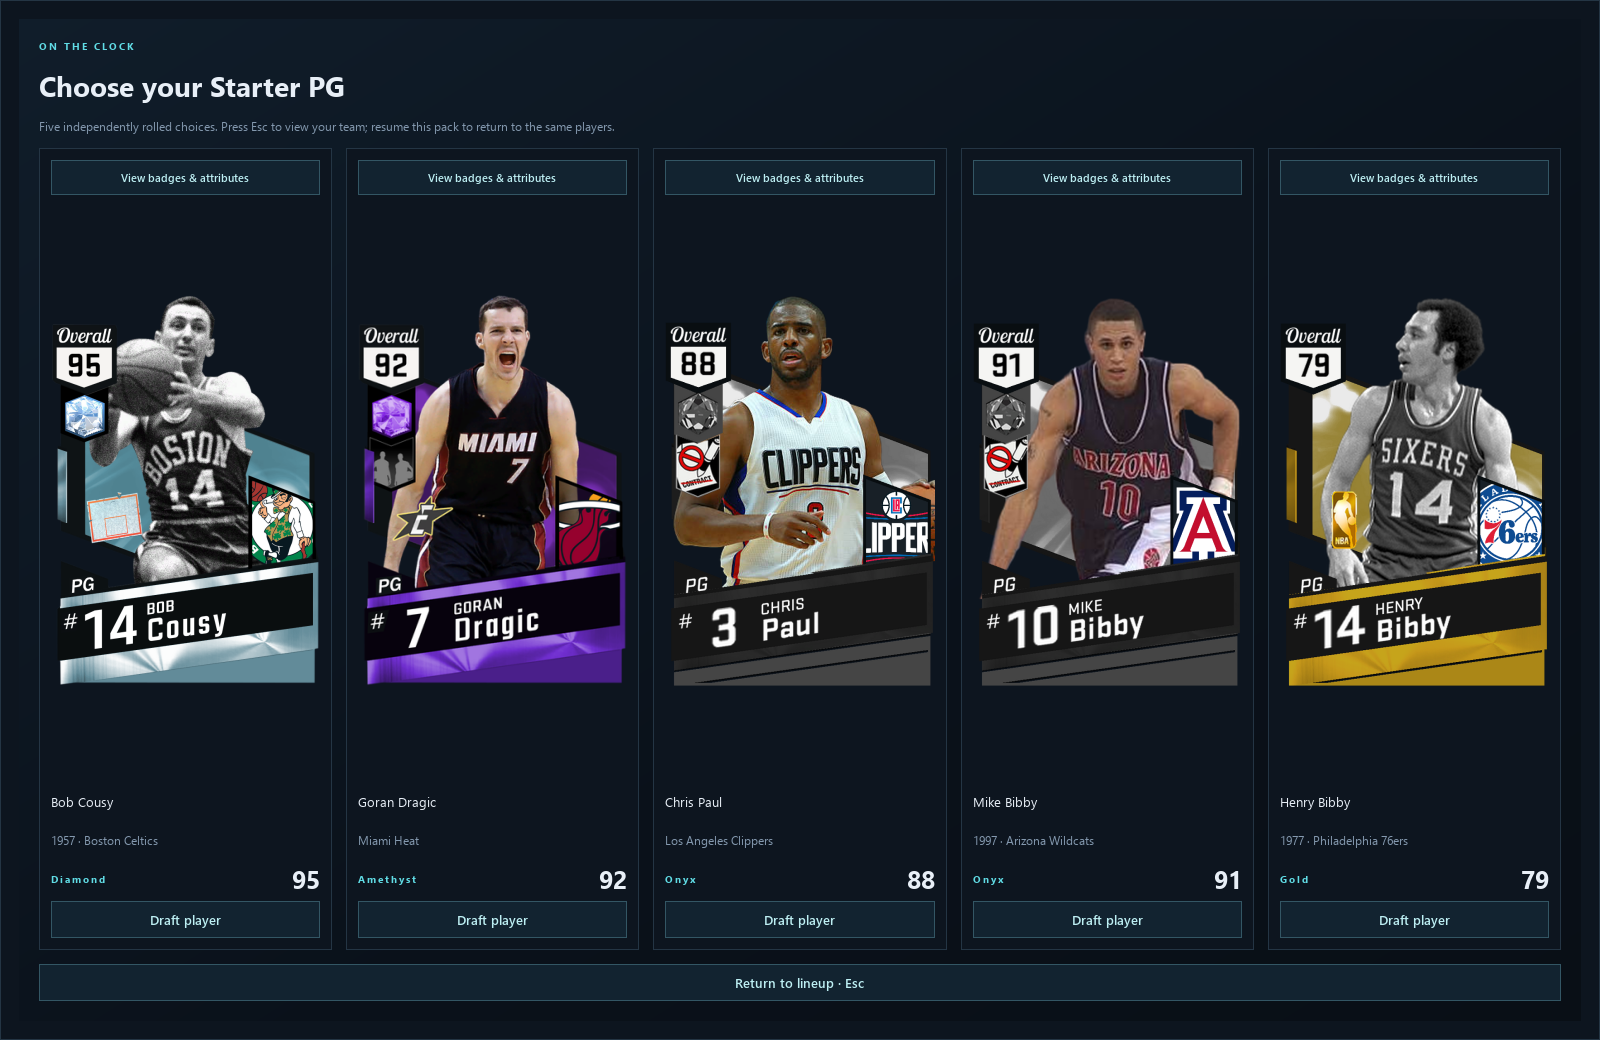
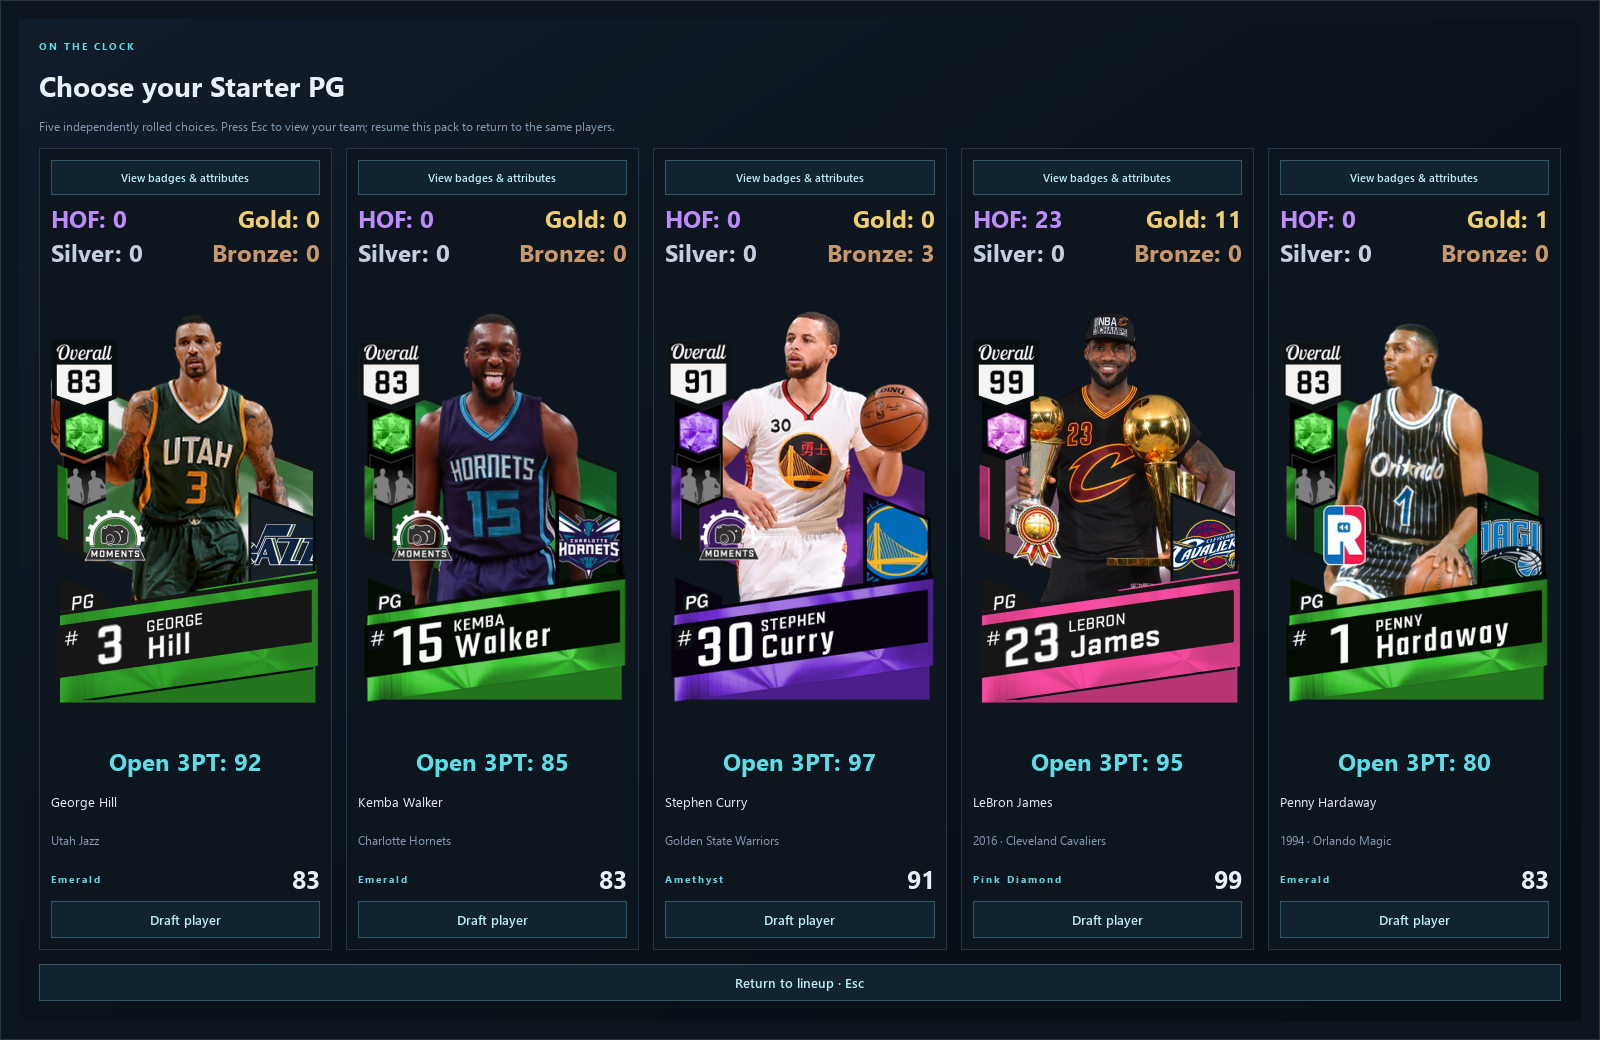
Release v1.1.0 with expanded cards and injection corrections

diff --git a/source/tools/nba2k17_viewer/team_ui.py b/source/tools/nba2k17_viewer/team_ui.py
@@ -2,13 +2,13 @@
 from datetime import datetime
 from pathlib import Path
 from PySide6.QtCore import Qt, QRect, QSize
-from PySide6.QtGui import QPixmap, QPainter, QColor, QFont
+from PySide6.QtGui import QPixmap, QPainter, QColor, QFont, QFontMetrics
 from PySide6.QtWidgets import (QWidget, QFrame, QLabel, QPushButton, QVBoxLayout,
     QHBoxLayout, QGridLayout, QComboBox, QLineEdit, QCheckBox, QScrollArea,
     QFileDialog, QMessageBox, QSizePolicy)
 from .teams import TeamSession, POSITIONS, DRAFT_KEYS, POSITION_KEYS, draft_odds, bonus_odds
 from .archive_repository import project_root
-from .presentation import TIER_COLORS
+from .presentation import TIER_COLORS, BADGE_COLORS, section_values
 from nba2k17_catalog import tier_rank
 
 TITLES = {'custom': 'Create a Team', 'random': 'Random Team', 'draft': 'Draft a Team'}
@@ -130,6 +130,38 @@ class CustomRosterTile(QFrame):
         self.action_button.setEnabled(row is not None)
         layout.addWidget(self.action_button)
 
+class DraftStatLabel(QLabel):
+    """Keep draft statistics on one line, fitting even narrow choice panels."""
+    def __init__(self, text, color, alignment=Qt.AlignmentFlag.AlignLeft):
+        super().__init__(text)
+        self.color = color
+        self.pixel_size = None
+        self.setTextFormat(Qt.TextFormat.PlainText)
+        self.setAlignment(alignment | Qt.AlignmentFlag.AlignVCenter)
+        self.setSizePolicy(QSizePolicy.Policy.Ignored, QSizePolicy.Policy.Fixed)
+        self.setFixedHeight(34)
+        self.fit_text()
+
+    def fit_text(self):
+        font = QFont(self.font())
+        font.setBold(True)
+        size = 26
+        while size > 8:
+            font.setPixelSize(size)
+            metrics = QFontMetrics(font)
+            if (metrics.horizontalAdvance(self.text()) <= self.contentsRect().width() - 4
+                    and metrics.height() <= self.contentsRect().height() - 2):
+                break
+            size -= 1
+        if size != self.pixel_size:
+            self.pixel_size = size
+            self.setStyleSheet(f'color: {self.color}; font-size: {size}px; font-weight: 700;')
+
+    def resizeEvent(self, event):
+        super().resizeEvent(event)
+        self.fit_text()
+
+
 class DraftChoice(QFrame):
     def __init__(self, workspace, row, compact=False):
         super().__init__()
@@ -143,10 +175,31 @@ class DraftChoice(QFrame):
         view.setStyleSheet('font-size: 11px; padding: 9px 3px;')
         view.clicked.connect(lambda: workspace.inspect(row))
         layout.addWidget(view)
+        card = workspace.owner.repository.cards[row['id']]
+        badges = section_values(card, 'badges')
+        self.badge_counts = {}
+        badge_grid = QGridLayout()
+        badge_grid.setHorizontalSpacing(12)
+        badge_grid.setVerticalSpacing(0)
+        for index, (level, title) in enumerate((('HALL_OF_FAME', 'HOF'), ('GOLD', 'Gold'),
+                                                ('SILVER', 'Silver'), ('BRONZE', 'Bronze'))):
+            count = sum(value == level for value in badges.values())
+            alignment = Qt.AlignmentFlag.AlignRight if index % 2 else Qt.AlignmentFlag.AlignLeft
+            indicator = DraftStatLabel(f'{title}: {count}', BADGE_COLORS[level], alignment)
+            self.badge_counts[level] = indicator
+            badge_grid.addWidget(indicator, index // 2, index % 2)
+        badge_grid.setColumnStretch(0, 1)
+        badge_grid.setColumnStretch(1, 1)
+        layout.addLayout(badge_grid)
         self.art = DraftArt(row.get('image_path'))
-        if compact:
-            self.art.setMinimumHeight(120)
+        # The artwork takes remaining space; a fixed minimum can force Qt to
+        # overlap the statistics at short window heights.
+        self.art.setMinimumHeight(0)
         layout.addWidget(self.art, 1)
+        three = section_values(card, 'attributes').get('open_shot_three')
+        self.open_three = DraftStatLabel(f'Open 3PT: {three if three is not None else "—"}',
+                                        '#60dce5', Qt.AlignmentFlag.AlignHCenter)
+        layout.addWidget(self.open_three)
         name = QLabel(row['name']); name.setWordWrap(True)
         name.setTextFormat(Qt.TextFormat.PlainText)
         name.setMinimumHeight(18 if compact else 34)

diff --git a/source/tools/nba2k17_viewer/user_identity_corrections.py b/source/tools/nba2k17_viewer/user_identity_corrections.py
@@ -1,4 +1,27 @@
-"""Explicit September 8 user corrections; original archive stays unchanged."""
+"""Explicit user corrections; original archive stays unchanged."""
+
+
+def apply_player_injection_corrections(card):
+    """Apply saved user choices after archive artwork and template resolution."""
+    from .face_ids import normalized_name
+    identity = card['identity']['values']
+    if normalized_name(identity.get('name') or '') != 'juliuserving':
+        return
+    updates = [('gameplay_metadata', 'face_id', 2301, 'USER_SUPPLIED_FACE_ID')]
+    if str(card['source']['source_card_id']) == '20430':
+        updates.append(('identity', 'jersey_number', '32', 'USER_CORRECTED'))
+    for domain, field, value, status in updates:
+        section = card[domain]
+        section['values'][field] = value
+        section.setdefault('statuses', {})[field] = status
+        section['missing_fields'] = [key for key in section.get('missing_fields', []) if key != field]
+        section['provenance'] = [p for p in section.get('provenance', [])
+                                 if not (p.get('source_site') == 'user_injection_correction' and p.get('field') == field)]
+        section['provenance'].append({'source_site': 'user_injection_correction',
+                                     'field': field, 'value': value, 'date': '2026-09-18',
+                                     'reason': 'User specified face 2301 for all Julius Erving cards and jersey 32 for the Nets card.'})
+
+
 CORRECTIONS = {
     '2098': ('Los Angeles Lakers', 1965, 'https://www.basketball-reference.com/teams/LAL/1965.html'),
     '2257': ('Los Angeles Lakers', 1992, 'https://www.basketball-reference.com/teams/LAL/1992.html'),

diff --git a/source/tools/nba2k17_viewer/catalog_build.py b/source/tools/nba2k17_viewer/catalog_build.py
@@ -14,7 +14,7 @@ import time
 from PIL import Image
 from nba2k17_catalog import exclusion_reason
 from .archive_repository import iter_audit, project_root
-from .user_identity_corrections import apply_identity_correction
+from .user_identity_corrections import apply_identity_correction, apply_player_injection_corrections
 from .year_audit import load_year_audit, apply_year_audit
 from .live_tendencies import load_live_tendencies, apply_live_tendencies
 from .tendency_estimates import load_tendency_estimates, apply_tendency_estimate
@@ -354,6 +354,7 @@ def build(root=None):
         # Export only after all overlays, including completions and authored cards.
         from .hand_policy import match_dunk_hand
         match_dunk_hand(record['card'])
+        apply_player_injection_corrections(record['card'])
         record['card']['injection'] = build_injection_profile(CanonicalCard.from_dict(record['card']))
     # Imports are appended after archive curation: never overwrite authored values.
     from .custom_import import imported_records
@@ -363,6 +364,7 @@ def build(root=None):
         apply_user_signatures(record, user_signatures.get(str(record['source_card_id'])))
         from .hand_policy import match_dunk_hand
         match_dunk_hand(record['card'])
+        apply_player_injection_corrections(record['card'])
         record['card']['injection'] = build_injection_profile(CanonicalCard.from_dict(record['card']))
         records.append(record)
     for imported_file in sorted((data / 'curation/studio_imports').glob('custom-*/*')):

diff --git a/source/tools/nba2k17_card_studio/editor_workspace.py b/source/tools/nba2k17_card_studio/editor_workspace.py
@@ -134,6 +134,13 @@ class DataEditor(QWidget):
         self.tabs.setCurrentIndex(min(tab,self.tabs.count()-1))
         self.update_overall()
 
+        self.refresh_headband_controls()
+
+    def refresh_headband_controls(self):
+        logo = self.fields.get(('gear', 'headband_logo'))
+        if logo is not None:
+            logo.setEnabled(self.document.data['gear']['values'].get('headband') == 1)
+
     def update_overall(self):
         result = self.document.recalculate_overall()
         self.overall_live.setText(f"OVR {result.normalized * 100:.2f}" if result.normalized is not None else f"OVR {self.document.spec['overall']}")
@@ -367,6 +374,8 @@ class DataEditor(QWidget):
         self.document.data[section]['values'][key]=value
         self.document.data[section]['statuses'][key]='CUSTOM_AUTHORED' if value is not None else 'MISSING'
         self.refresh_tooltip(section,key)
+        if section == 'gear' and key == 'headband':
+            self.refresh_headband_controls()
         if section=='gameplay_metadata' and key=='dominant_hand':
             from nba2k17_viewer.hand_policy import match_dunk_hand
             match_dunk_hand(self.document.data)

diff --git a/source/tools/nba2k17_viewer/archive_repository.py b/source/tools/nba2k17_viewer/archive_repository.py
@@ -292,6 +292,8 @@ class ArchiveRepository:
                 identity['jersey_number'] = jerseys.pop()
                 card['identity']['statuses']['jersey_number'] = 'WEB_CARD_SPECIFIC'
                 card['identity']['raw_labels']['jersey_number'] = 'Visually reviewed original card artwork'
+        from .user_identity_corrections import apply_player_injection_corrections
+        apply_player_injection_corrections(card)
         name = identity.get("name") or f"Unparsed card #{card_id}"
         row = {"id": uid, "source_card_id": card_id, "name": name, "overall": identity.get("overall"),
                "tier": identity.get("tier"), "team": identity.get("team"), "theme": identity.get("theme"),

diff --git a/source/src/scanner/player_codec.py b/source/src/scanner/player_codec.py
@@ -124,6 +124,8 @@ def encode(record, field, value):
         elif isinstance(value, str) and value.isascii() and value.isdecimal() and str(int(value)) == value:
             value = int(value)
     elif codec == 'enum' and isinstance(value, str):
+        if field.get('field') in ('identity.primary_position', 'identity.secondary_position'):
+            value = value.strip().upper()
         if value not in field.get('labels', {}):
             raise ValueError('Unmapped enum label: ' + value)
         value = field['labels'][value]

diff --git a/source/tools/nba2k17_viewer/live_roster_templates.py b/source/tools/nba2k17_viewer/live_roster_templates.py
@@ -87,6 +87,7 @@ def load_roster_templates(path, *, data_root=None, include_validation=True):
         from .native_roster_templates import apply_native_templates
         apply_native_templates(payload,data/'curation/native_roster_templates.json',data)
         apply_scanned_templates(payload,data/'curation/selected_roster_templates.json',data)
+        apply_scanned_templates(payload,data/'curation/rasheed_roster_template.json',data)
     return payload
 
 

diff --git a/RELEASE_NOTES.md b/RELEASE_NOTES.md
@@ -1,14 +1,18 @@
-# NBA 2K17 MyTEAM v1.0.0
+# NBA 2K17 MyTEAM v1.1.0
 
-Initial GitHub release of the combined MyTEAM archive, team builder, and Card Studio.
+Updated September 27, 2026.
 
-- Includes 2,130 available cards and original PNG artwork with no image recompression.
-- Includes recent Pascal Siakam, Jaylen Brown, Damian Lillard, Jimmy Butler, Joel Embiid, Nikola Jokic, Jamal Murray, and Andre Iguodala custom cards.
-- Supports reusable player templates, signatures, shoes/gear, accessories, handedness, commentary identity fields, and custom-card injection data.
-- Includes Create a Team, Random Team, and Draft a Team, plus custom-card filters and management.
-- Uses selected team/slot destination addressing and automatic linked-storage ownership checks, with preview/readback/undo protection.
-- Adds Steam roster-folder suggestions while retaining manual folder selection.
-- Adds a migration helper for personal data from older portable installations.
-- Provides source code, build resources, checksums, and screenshots.
+- Includes 2,170 available cards with all current saved custom cards, artwork, and reusable injection data (40 more available cards than v1.0.0).
+- Preserves original card PNGs and editable custom-card packages; no image recompression.
+- Adds color-matched HOF, Gold, Silver, and Bronze badge counters plus cyan Open 3PT ratings to draft choices, including final Diamond/Amethyst rounds.
+- Updates headband and headband-logo data and the saved Rasheed Wallace source data.
+- Sets all Julius Erving cards to face ID 2301 and the Nets Beasts card to jersey 32.
+- Corrects David Lee's saved face/cyberface and portrait IDs to 1285 using a stable live roster capture.
+- Corrects the custom 90 OVR Kevon Looney card to C/PF and accepts position labels regardless of capitalization or surrounding spaces.
+- Includes refreshed screenshots, source code, matching build resources, and SHA-256 checksums.
 
-Compatibility remains limited to verified NBA 2K17 executable/roster layouts. External modded face and portrait assets are not included. This release does not claim new in-game visual or audio verification beyond the existing verified mappings.
+Download **NBA.2K17.MyTEAM.zip**, extract the entire archive, and run **2K17 MyTEAM.exe**. Keep the included `.project` folder beside the EXE. The build-resources download is optional and only needed to build from source.
+
+For an existing installation, follow [UPDATING.md](UPDATING.md). Extract into a new folder and preserve your previous installation until your personal cards and lineups have been checked.
+
+Compatibility remains limited to verified NBA 2K17 executable/roster layouts. External modded face and portrait assets are not included. The David Lee correction has verified captured IDs and encoding; renewed in-game visibility is not claimed as tested.

diff --git a/README.md b/README.md
@@ -17,10 +17,11 @@ Download `NBA.2K17.MyTEAM.zip`, choose **Extract All**, and run `2K17 MyTEAM.exe
 
 ## Included
 
-- 2,130 available cards in the initial release, including the latest custom cards.
+- 2,170 available cards in v1.1.0, including all currently saved custom cards.
 - Original PNG artwork, preserved byte-for-byte. ZIP compression is lossless.
 - Filters for tiers, teams, positions, themes, collections, overall, and custom cards.
 - Create a Team, Random Team, and Draft a Team modes.
+- Draft choices show badge-tier counts and Open 3PT ratings, including final Diamond/Amethyst rounds.
 - Integrated Card Studio with editable ratings, tendencies, signatures, shoes, accessories, badges, and hot zones.
 - Custom-card imports, disable/re-enable/remove controls, and editable teams and years.
 - Saved reusable player templates for injection, with preview, verification, and undo.
